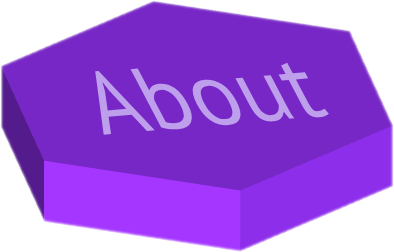
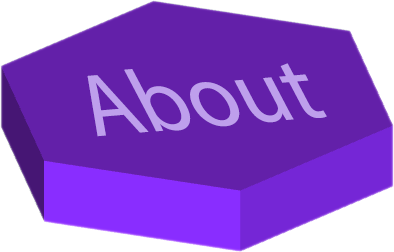
Reorg and some upgrades

diff --git a/src/features/projects/Project.tsx b/src/features/projects/Project.tsx
@@ -1,0 +1,96 @@
+import { useState } from 'react';
+import { faGithub, IconDefinition } from '@fortawesome/free-brands-svg-icons';
+import { faPaperPlane } from '@fortawesome/free-solid-svg-icons';
+import ProjectLink from './ProjectLink';
+import useBreakpoint from '../customHooks/useBreakpoint';
+import ProjectLinkMini from './ProjectLinkMini';
+import WhiteHoverCard from '../structure/WhiteHoverCard';
+import TagsList from '../structure/Tags';
+
+export interface IProjectProps {
+   title: string;
+   description: string;
+   image: string;
+   tags: string[];
+   codeUrl?: string;
+   siteUrl?: string;
+}
+
+function Project({ title, description, image, tags, codeUrl, siteUrl }: IProjectProps) {
+   const [isHovered, setIsHovered] = useState(false);
+   const { isDesktop } = useBreakpoint();
+
+   const transOpacity = 'transition-opacity duration-500 ease-in-out';
+   const hoveredFadeIn = `opacity-${isHovered ? '100' : '0'} ${transOpacity}`;
+   const hoveredFadeOut = `opacity-${isHovered ? '0' : '100'} ${transOpacity}`;
+
+   interface ILink {
+      text: string;
+      url: string;
+      icon: IconDefinition;
+      location: 'left' | 'right' | 'full';
+   }
+
+   let links: ILink[] = [];
+   if (codeUrl)
+      links.push({ text: 'Source', url: codeUrl, icon: faGithub, location: 'left' });
+   if (siteUrl)
+      links.push({ text: 'Hosted', url: siteUrl, icon: faPaperPlane, location: 'right' });
+   if (links.length === 1) links[0].location = 'full';
+
+   return (
+      <WhiteHoverCard>
+         <div
+            className="grid grid-cols-[auto,1fr] gap-x-3 gap-y-2 p-3 cursor-default"
+            onMouseEnter={() => setIsHovered(true)}
+            onMouseLeave={() => setIsHovered(false)}
+         >
+            <div className="row-span-3 place-self-center">
+               {isDesktop && (
+                  <img
+                     className="w-36 h-36"
+                     src={image}
+                     alt={`Screenshot of application ${title}`}
+                  />
+               )}
+            </div>
+            <div className="text-2xl text-accent">{title}</div>
+            <div className="col-start-2 roboto-light">
+               <div className="relative">
+                  <div className={isDesktop ? hoveredFadeOut : ''}>{description}</div>
+                  {/* Source and site links hover overlay */}
+                  {isDesktop && (
+                     <div
+                        className={`absolute w-full h-full top-0 flex ${hoveredFadeIn}`}
+                     >
+                        {links.map(link => (
+                           <ProjectLink {...link} key={link.url} />
+                        ))}
+                     </div>
+                  )}
+
+                  {/* Links for screen readers */}
+                  {isDesktop &&
+                     links.map(link => (
+                        <ProjectLinkMini {...link} isScreenReader={true} key={link.url} />
+                     ))}
+               </div>
+            </div>
+            <div className="col-start-2 row-start-3">
+               <TagsList tags={tags} />
+            </div>
+
+            {/* Mobile inline source and site links */}
+            {!isDesktop && (
+               <div className="col-start-2 row-start-4">
+                  {links.map(link => (
+                     <ProjectLinkMini {...link} isScreenReader={false} key={link.text} />
+                  ))}
+               </div>
+            )}
+         </div>
+      </WhiteHoverCard>
+   );
+}
+
+export default Project;

diff --git a/src/features/projects/Projects.tsx b/src/features/projects/Projects.tsx
@@ -1,11 +1,11 @@
-import Header from '../displayElements/Header';
+import Header from '../structure/Header';
 import quiltiImage from '../../assets/project_images/quilti.jpg';
 import tinyTown from '../../assets/project_images/tiny-town.jpg';
 import pingTrack from '../../assets/project_images/ping-track.jpg';
 import letsMeetOn from '../../assets/project_images/lets-meet-on.jpg';
 import commForward from '../../assets/project_images/comm-forward.jpg';
 import portfolio from '../../assets/project_images/portfolio.jpg';
-import Project, { IProjectProps } from '../displayElements/Project';
+import Project, { IProjectProps } from '../projects/Project';
 
 function Projects() {
    const projects: IProjectProps[] = [
@@ -43,7 +43,8 @@ function Projects() {
       {
          title: "Let's Meet On",
          description:
-            'A web app to take a group of people’s schedules and display the times when everyone is available. One of my earliest software career projects but remains useful and still gets active users.',
+            'A web app to take a group of people’s schedules and display the times when everyone is available.' +
+            ' One of my earliest software projects but remains useful and still gets active users.',
          image: letsMeetOn,
          tags: ['Vue.js', '.NET', 'Entity Framework', 'SignalR', 'SendGrid', 'Moment.js'],
          siteUrl: 'https://letsmeeton.com/',
@@ -51,7 +52,9 @@ function Projects() {
       {
          title: 'Comm Forward',
          description:
-            'A minimalist app to communicate needs and feelings. Created for my grandfather who had fallen ill and had difficulty speaking. Features a simple to use, tablet-friendly design and a customizable interface.',
+            'A minimalist app to communicate needs and feelings.' +
+            ' Created for my grandfather who had fallen ill and had difficulty speaking. ' +
+            ' Features a simple to use, tablet-friendly design and a customizable interface.',
          image: commForward,
          tags: ['Vue.js'],
          siteUrl: 'https://hobblyhoy.github.io/CommForward/',

diff --git a/src/features/work/Work.tsx b/src/features/work/Work.tsx
@@ -1,14 +1,13 @@
 /** @jsxImportSource @emotion/react */
 import { css } from '@emotion/react';
-import Header from '../displayElements/Header';
-import Job, { IJobProps } from '../displayElements/Job';
+import Header from '../structure/Header';
+import Job, { IJobProps } from './Job';
 
 function Work() {
    const jobs: IJobProps[] = [
       {
          title: 'Software Engineer',
          companyName: 'iGrad Financial Wellness',
-         duration: '2019 => Current',
          description: 'TODO',
          tags: [
             'JavaScript',
@@ -19,20 +18,24 @@ function Work() {
             'Cosmos',
             'SQL Server',
          ],
+         start: '2019',
+         end: 'Current',
       },
       {
          title: 'Software Developer',
          companyName: 'MREN',
-         duration: '2016 => 2018',
          description: 'TODO',
          tags: ['JavaScript', 'Knockout', 'C#', 'ASP.NET', 'SQL Server', 'Selenium'],
+         start: '2016',
+         end: '2018',
       },
       {
          title: 'Business Intelligence and IT Administrator',
          companyName: 'iTAN Franchising',
-         duration: '2012 => 2016',
          description: 'TODO',
          tags: ['SQL Server', 'SSRS', 'IT'],
+         start: '2012',
+         end: '2016',
       },
    ];
 

diff --git a/src/features/work/Job.tsx b/src/features/work/Job.tsx
@@ -1,0 +1,35 @@
+import { faRightLong } from '@fortawesome/free-solid-svg-icons';
+import { FontAwesomeIcon } from '@fortawesome/react-fontawesome';
+import WhiteHoverCard from '../structure/WhiteHoverCard';
+import TagsList from '../structure/Tags';
+
+export interface IJobProps {
+   title: string;
+   companyName: string;
+   start: string;
+   end: string;
+   description: string;
+   tags: string[];
+}
+
+function Job({ title, companyName, start, end, description, tags }: IJobProps) {
+   return (
+      <WhiteHoverCard>
+         <div className="grid gap-1 p-3">
+            <div className="text-xl text-accent">{title}</div>
+            <div className="justify-self-end roboto-light text-sm self-center">
+               {start}
+               <FontAwesomeIcon icon={faRightLong} className="mx-2" />
+               {end}
+            </div>
+            <div className="col-span-2 row-start-2 text-lg">{companyName}</div>
+            <div className="col-span-2 row-start-3 roboto-regular">{description}</div>
+            <div className="col-span-2 row-start-4">
+               <TagsList tags={tags} />
+            </div>
+         </div>
+      </WhiteHoverCard>
+   );
+}
+
+export default Job;

diff --git a/src/features/hexagons/HexagonTile.tsx b/src/features/hexagons/HexagonTile.tsx
@@ -1,8 +1,8 @@
 /** @jsxImportSource @emotion/react */
 import { useEffect, useMemo, useState } from 'react';
 import { css, keyframes } from '@emotion/react';
-import hexagonImage from '../../assets/sketchup_hexa_v2.png';
-import hexagonProjects from '../../assets/sketchup_hexa_projects2.png';
+import hexagonImage from '../../assets/sketchup_hexa_v4.png';
+import hexagonProjects from '../../assets/sketchup_hexa_projects.png';
 import hexagonAbout from '../../assets/sketchup_hexa_about.png';
 import hexagonWork from '../../assets/sketchup_hexa_work.png';
 import { HEXAGON_FADE_TIME, TILE_WIDTH } from '../../app/constants';

diff --git a/src/features/structure/ContentFrame.tsx b/src/features/structure/ContentFrame.tsx
@@ -1,11 +1,11 @@
 /** @jsxImportSource @emotion/react */
 import { css } from '@emotion/react';
 import { useAppSelector } from '../../app/hooks';
-import Welcome from './Welcome';
-import About from './About';
+import Welcome from '../welcome/Welcome';
+import About from '../about/About';
 import useBreakpoint from '../customHooks/useBreakpoint';
-import Projects from './Projects';
-import Work from './Work';
+import Projects from '../projects/Projects';
+import Work from '../work/Work';
 
 function ContentFrame() {
    const { isDesktop } = useBreakpoint();

diff --git a/src/features/structure/WhiteHoverCard.tsx b/src/features/structure/WhiteHoverCard.tsx
@@ -1,0 +1,15 @@
+import { ReactNode } from 'react';
+
+interface IProps {
+   children: ReactNode;
+}
+
+function WhiteHoverCard({ children }: IProps) {
+   return (
+      <div className="transition-colors duration-500 ease-in-out bg-white bg-opacity-0 hover:bg-opacity-5 rounded-md">
+         {children}
+      </div>
+   );
+}
+
+export default WhiteHoverCard;

diff --git a/src/features/structure/Tags.tsx b/src/features/structure/Tags.tsx
@@ -1,0 +1,17 @@
+interface IProps {
+   tags: string[];
+}
+
+function TagsList({ tags }: IProps) {
+   return (
+      <div className="flex flex-wrap">
+         {tags.map(tag => (
+            <span className="mr-3" key={tag}>
+               {tag}
+            </span>
+         ))}
+      </div>
+   );
+}
+
+export default TagsList;

diff --git a/src/App.tsx b/src/App.tsx
@@ -1,6 +1,6 @@
 import React from 'react';
 import HexagonRenderer from './features/hexagons/HexagonRenderer';
-import ContentFrame from './features/content/ContentFrame';
+import ContentFrame from './features/structure/ContentFrame';
 
 function App() {
    return (

diff --git a/src/features/about/About.tsx b/src/features/about/About.tsx
@@ -1,4 +1,4 @@
-import Header from '../displayElements/Header';
+import Header from '../structure/Header';
 
 function About() {
    return (
